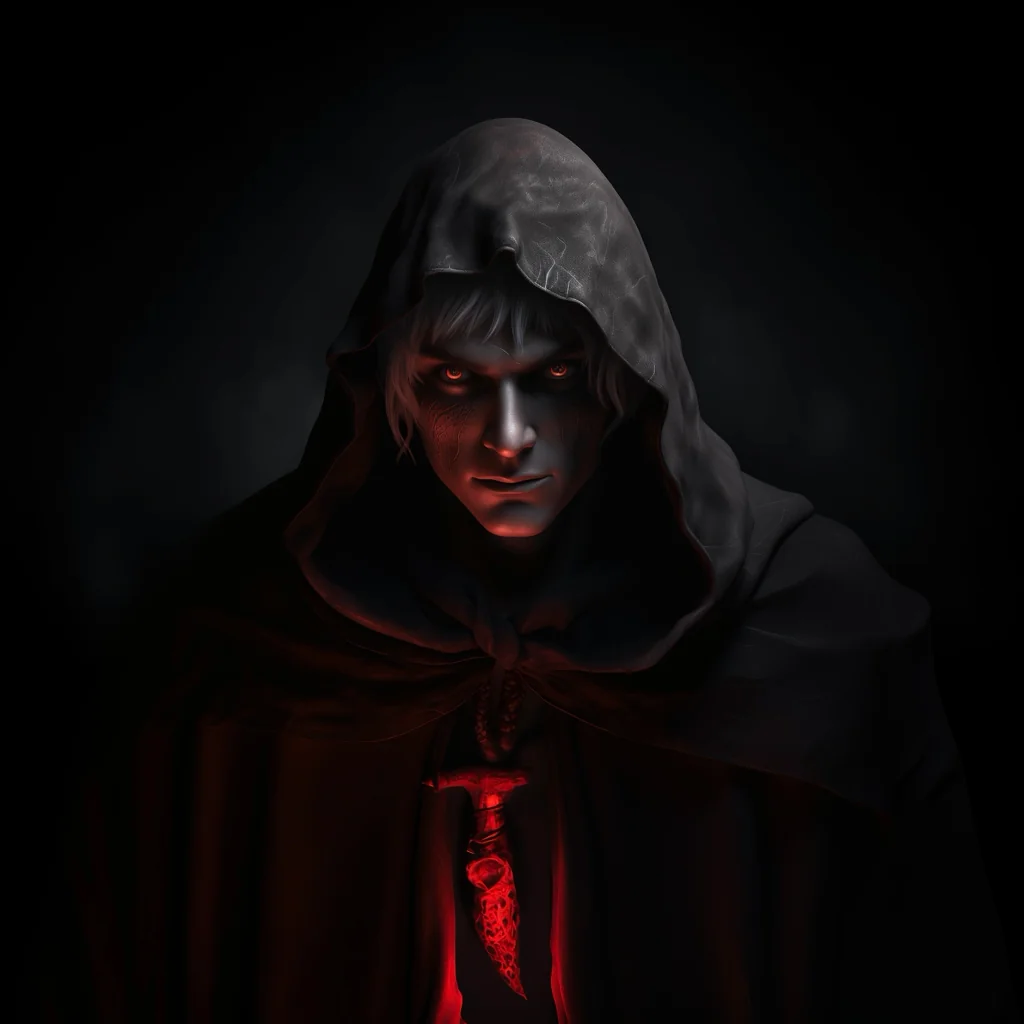
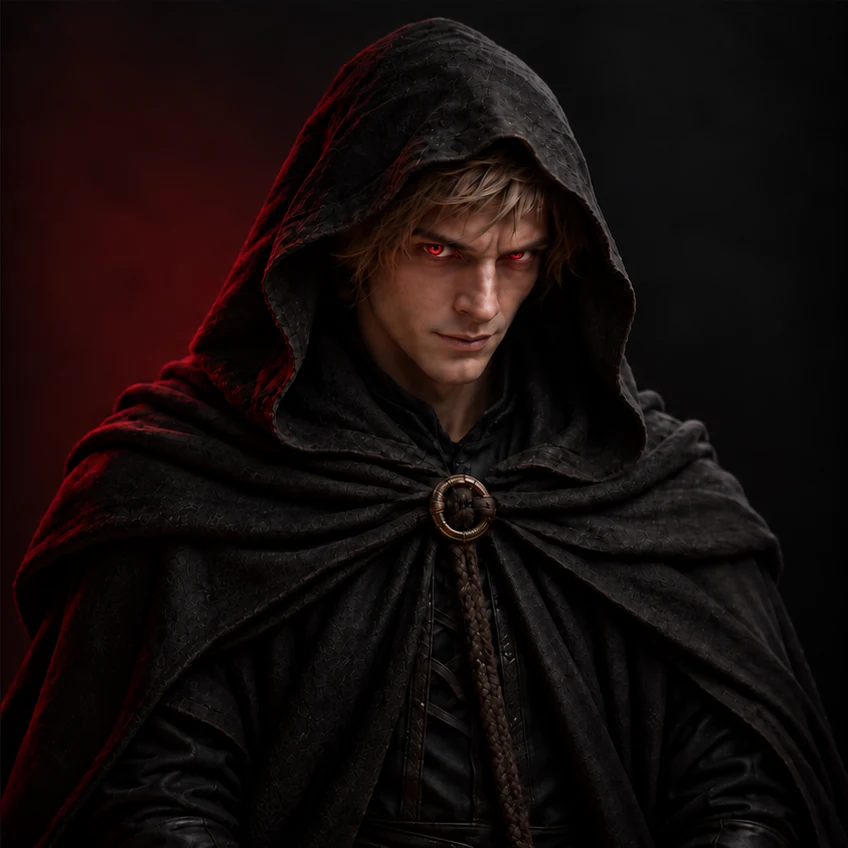
new oberon and wraith

diff --git a/packages/ui/src/helpers/styles/role-framing.ts b/packages/ui/src/helpers/styles/role-framing.ts
@@ -18,8 +18,8 @@ export const roleFraming: Record<'default' | 'legacy' | 'anime', Record<string, 
     unknown_lancelot: [1.25, 48, 0, 140, 48, 0],
     mordred: [1.3, 45, 0, 170, 45, 0],
     morgana: [1.3, 51, 0, 165, 51, 20],
-    oberon: [1.3, 50, 10, 145, 50, 40],
-    wraith: [1.35, 50, 15, 155, 50, 30],
+    oberon: [1.3, 55, 10, 200, 60, 20],
+    wraith: [1.3, 55, 10, 200, 60, 20],
     trickster: [1.1, 52, 0, 165, 52, 23],
     witch: [1, 50, 0, 120, 45, 5],
     revealer: [1.1, 43, 10, 130, 43, 35],
@@ -72,8 +72,8 @@ export const roleFraming: Record<'default' | 'legacy' | 'anime', Record<string, 
     unknown_lancelot: [1.15, 45, 0, 150, 45, 0],
     mordred: [1.4, 50, 0, 220, 50, 0],
     morgana: [1.15, 50, 0, 140, 50, 0],
-    oberon: [1.25, 50, 0, 175, 50, 0],
-    wraith: [1.25, 52, 5, 155, 52, 20],
+    oberon: [1.15, 55, 5, 170, 58, 24],
+    wraith: [1.15, 55, 5, 170, 58, 24],
     trickster: [1.05, 56, 0, 180, 56, 10],
     witch: [1, 55, 0, 130, 55, 0],
     revealer: [1.1, 50, 0, 120, 50, 0],
